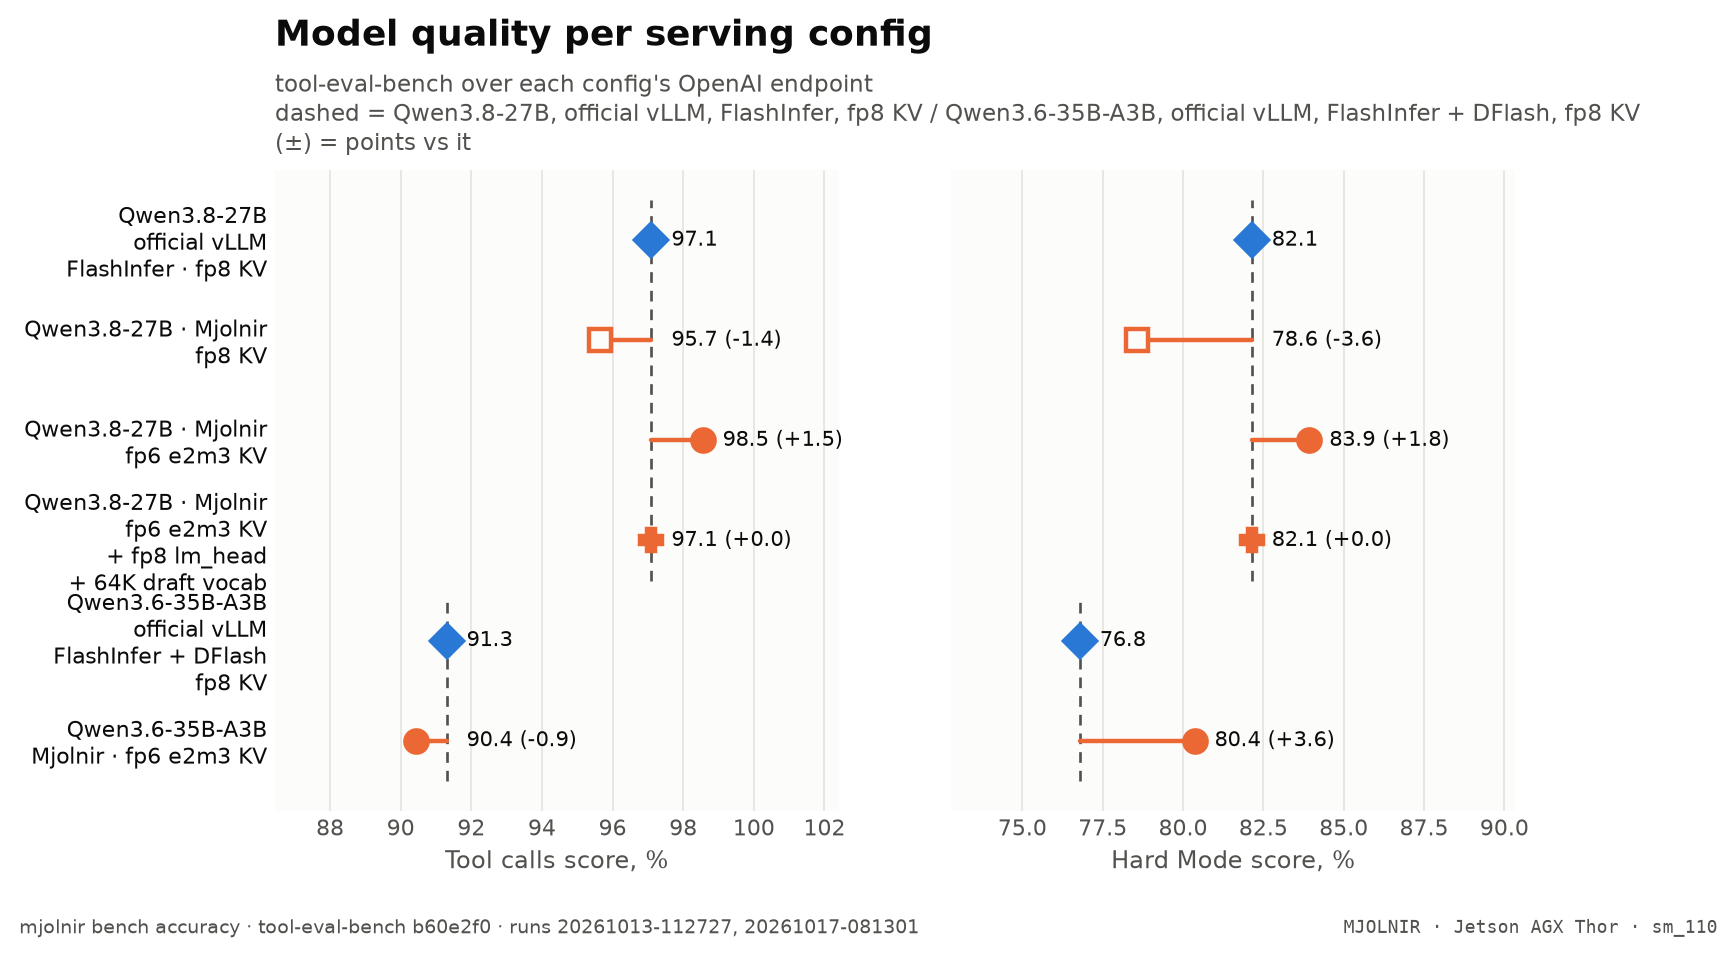
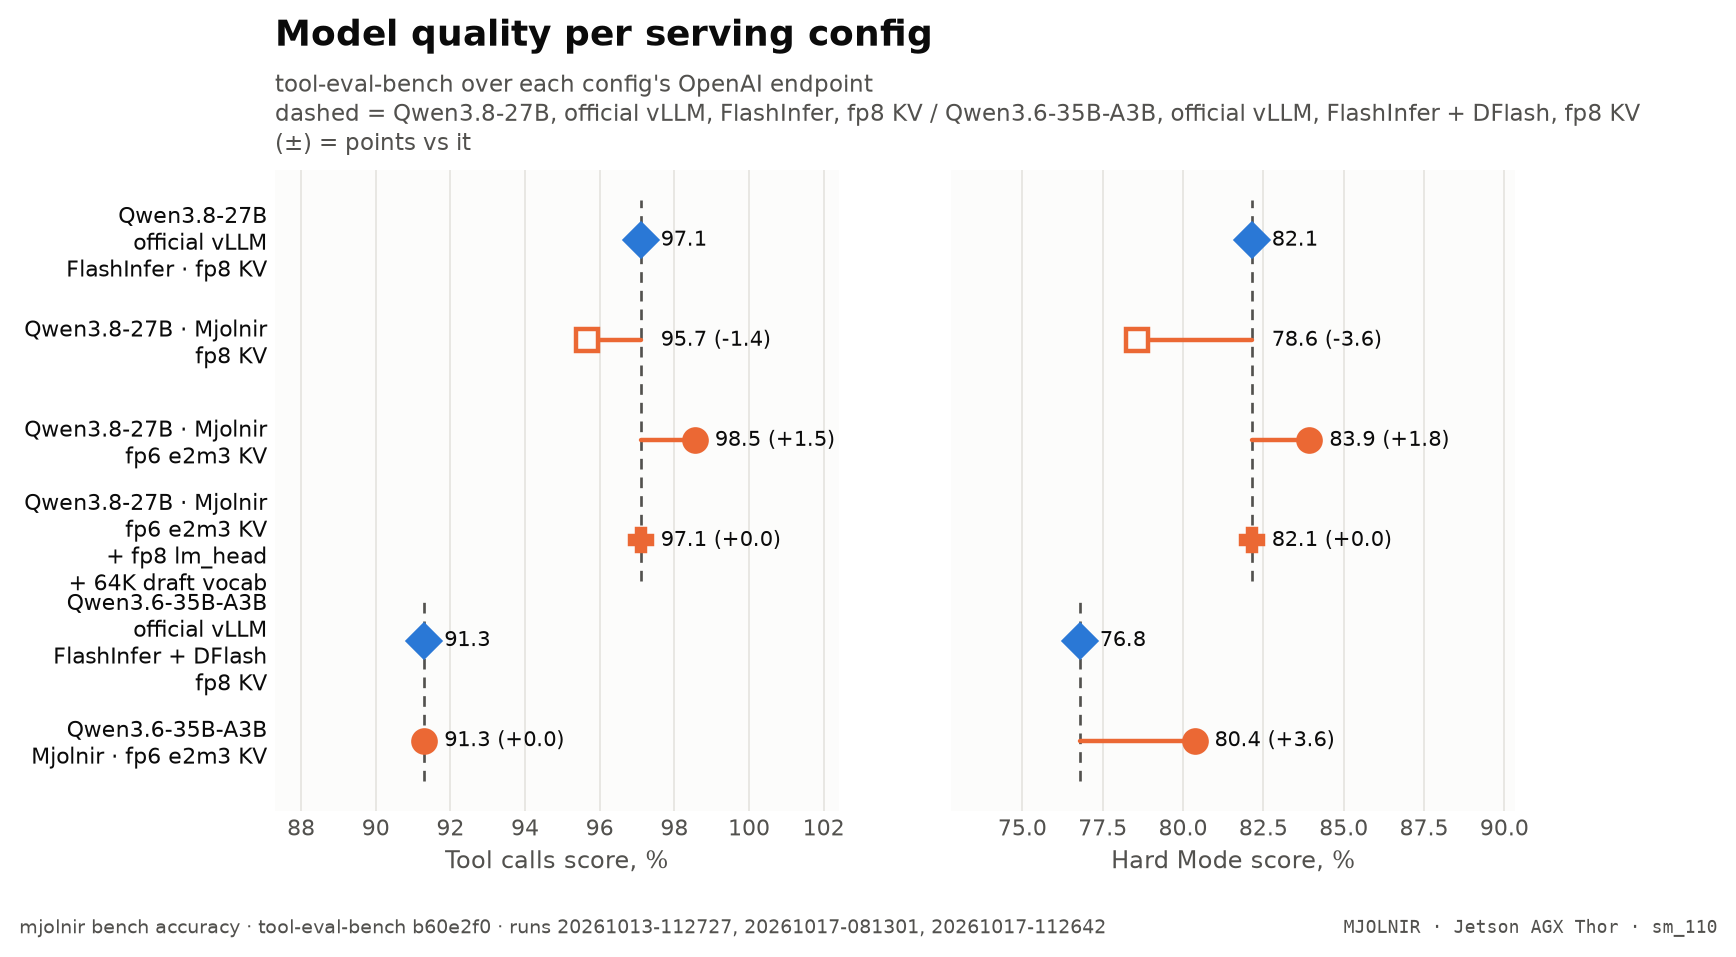
accuracy: rerun Qwen3.6 NVFP4_MJOLNIR_E2M3 leg (TC-45 scored, 100% completion)
Run 20261017-081301 dropped TC-45 (tool_choice=required) from the Mjolnir
leg: tool-eval-bench's pre-run probe judged the endpoint non-enforcing,
so Tool calls scored 123/136 against official's 126/138 (-2.2 points if
the dropped scenario counts as zero, not the -0.9 shown).

The probe is not reproducible as a failure: 10 of 10 repeats of the exact
probe request (temperature 0, max_tokens 256 and 4096) on the same config
returned a probe_ping tool call with finish_reason tool_calls, 82-203
completion tokens. Rerun 20261017-112642 (Mjolnir leg only, same args)
scored TC-45 2/2: Tool calls 126/138 = 91.3 (official 91.3), Hard Mode
45/56 = 80.4 (official 76.8), completion 100%.

One trial per leg: the two Mjolnir runs differ in 5 of 97 scenarios, as
large as the gap to official, so this supports "no loss beyond run-to-run
noise", not a gain.

diff --git a/docs/kernel/accuracy.md b/docs/kernel/accuracy.md
@@ -1,6 +1,6 @@
 # Accuracy
 
-> Does a serving config keep the model's answers? Tool calling (standard + Hard Mode), and GSM8K / MMLU / IFEval on demand · `mjolnir bench accuracy` · runs `20261013-112727`, `20261017-081301`
+> Does a serving config keep the model's answers? Tool calling (standard + Hard Mode), and GSM8K / MMLU / IFEval on demand · `mjolnir bench accuracy` · runs `20261013-112727`, `20261017-081301`, `20261017-112642`
 
 ## The question
 
@@ -28,7 +28,7 @@ Sampling is greedy (temperature 0) with a fixed seed, so two configs see the sam
 - **Qwen3.8-27B · Mjolnir · fp8 KV** vs Qwen3.8-27B · official vLLM · FlashInfer · fp8 KV: Tool calls -1.4, Hard Mode -3.6 points (4 scenarios scored lower, 2 higher of 97).
 - **Qwen3.8-27B · Mjolnir · fp6 e2m3 KV** vs Qwen3.8-27B · official vLLM · FlashInfer · fp8 KV: Tool calls +1.5, Hard Mode +1.8 points (0 scenarios scored lower, 3 higher of 97).
 - **Qwen3.8-27B · Mjolnir · fp6 e2m3 KV + fp8 lm_head + 64K draft vocab** vs Qwen3.8-27B · official vLLM · FlashInfer · fp8 KV: Tool calls +0.0, Hard Mode +0.0 points (1 scenarios scored lower, 1 higher of 97).
-- **Qwen3.6-35B-A3B · Mjolnir · fp6 e2m3 KV** vs Qwen3.6-35B-A3B · official vLLM · FlashInfer + DFlash · fp8 KV: Tool calls -0.9, Hard Mode +3.6 points (3 scenarios scored lower, 3 higher of 97).
+- **Qwen3.6-35B-A3B · Mjolnir · fp6 e2m3 KV** vs Qwen3.6-35B-A3B · official vLLM · FlashInfer + DFlash · fp8 KV: Tool calls +0.0, Hard Mode +3.6 points (1 scenarios scored lower, 3 higher of 97).
 
 | config | KV | Tool calls % | Hard Mode % | completion |
 |---|---|--:|--:|--:|
@@ -37,7 +37,7 @@ Sampling is greedy (temperature 0) with a fixed seed, so two configs see the sam
 | Qwen3.8-27B · Mjolnir · fp6 e2m3 KV | fp6 e2m3 | 98.5 (+1.5) | 83.9 (+1.8) | 100% |
 | Qwen3.8-27B · Mjolnir · fp6 e2m3 KV + fp8 lm_head + 64K draft vocab | fp6 e2m3 | 97.1 (+0.0) | 82.1 (+0.0) | 100% |
 | **Qwen3.6-35B-A3B · official vLLM · FlashInfer + DFlash · fp8 KV** | fp8 | 91.3 | 76.8 | 100% |
-| Qwen3.6-35B-A3B · Mjolnir · fp6 e2m3 KV | fp6 e2m3 | 90.4 (-0.9) | 80.4 (+3.6) | 99% |
+| Qwen3.6-35B-A3B · Mjolnir · fp6 e2m3 KV | fp6 e2m3 | 91.3 (+0.0) | 80.4 (+3.6) | 100% |
 
 <details>
 <summary>How the % and × here are calculated</summary>
@@ -48,7 +48,7 @@ Sampling is greedy (temperature 0) with a fixed seed, so two configs see the sam
 
 </details><br />
 
-<sub>Score in %, (±) = points vs the bold row of the same model (**Qwen3.8-27B · official vLLM · FlashInfer · fp8 KV / Qwen3.6-35B-A3B · official vLLM · FlashInfer + DFlash · fp8 KV**), never across models; n = averaged runs (`--trials`). Each row takes every suite from the newest run that measured it. tool-eval-bench arguments: Tool calls: `run --hardmode --seed 42 --timeout 600`; Hard Mode: `run --hardmode --seed 42 --timeout 600`. Rendered from [`benchmarks/raw/accuracy/20261013-112727/accuracy.json`](../../benchmarks/raw/accuracy/20261013-112727/accuracy.json), [`benchmarks/raw/accuracy/20261017-081301/accuracy.json`](../../benchmarks/raw/accuracy/20261017-081301/accuracy.json).</sub>
+<sub>Score in %, (±) = points vs the bold row of the same model (**Qwen3.8-27B · official vLLM · FlashInfer · fp8 KV / Qwen3.6-35B-A3B · official vLLM · FlashInfer + DFlash · fp8 KV**), never across models; n = averaged runs (`--trials`). Each row takes every suite from the newest run that measured it. tool-eval-bench arguments: Tool calls: `run --hardmode --seed 42 --timeout 600`; Hard Mode: `run --hardmode --seed 42 --timeout 600`. Rendered from [`benchmarks/raw/accuracy/20261013-112727/accuracy.json`](../../benchmarks/raw/accuracy/20261013-112727/accuracy.json), [`benchmarks/raw/accuracy/20261017-081301/accuracy.json`](../../benchmarks/raw/accuracy/20261017-081301/accuracy.json), [`benchmarks/raw/accuracy/20261017-112642/accuracy.json`](../../benchmarks/raw/accuracy/20261017-112642/accuracy.json).</sub>
 
 ### By tool-call category
 
@@ -67,9 +67,9 @@ Sampling is greedy (temperature 0) with a fixed seed, so two configs see the sam
 | F · Localization | 100 | 100 | 100 | 100 | 100 | 100 |
 | G · Structured Reasoning | 100 | 100 | 100 | 100 | 100 | 100 |
 | H · Instruction Following | 100 | 100 | 100 | 100 | 100 | 100 |
-| I · Context & State | 90 | 95 | 100 | 90 | 85 | 80 |
+| I · Context & State | 90 | 95 | 100 | 90 | 85 | 75 |
 | J · Code Patterns | 100 | 100 | 100 | 100 | 83 | 100 |
-| K · Safety & Boundaries | 100 | 88 | 100 | 100 | 92 | 85 |
+| K · Safety & Boundaries | 100 | 88 | 100 | 100 | 92 | 92 |
 | L · Toolset Scale | 100 | 100 | 100 | 100 | 88 | 88 |
 | M · Autonomous Planning | 100 | 100 | 100 | 100 | 83 | 100 |
 | N · Creative Composition | 100 | 100 | 100 | 100 | 100 | 100 |

diff --git a/docs/kernel/README.md b/docs/kernel/README.md
@@ -74,7 +74,7 @@ flowchart LR
 | 10 | [L2 prefetch](prefetch.md) | TMA L2 prefetch distance (--l2_prefetch) sweep | ✅ run `20261012-211441` |
 | 11 | [Programmatic dependent launch](pdl.md) | PDL on/off wall clock (decode overlaps the previous kernel; merge launches early) | ✅ run `20261012-212058` |
 | 12 | [Flag A/B](ab.md) | any harness flag sets, ncu + wall clock (default: evict-first x PDL) | ✅ run `20261012-212748` |
-| 13 | [Accuracy](accuracy.md) | Does a serving config keep the model's answers? Tool calling (standard + Hard Mode), GSM8K / MMLU / IFEval on demand — `mjolnir bench accuracy` | ✅ run `20261017-081301` |
+| 13 | [Accuracy](accuracy.md) | Does a serving config keep the model's answers? Tool calling (standard + Hard Mode), GSM8K / MMLU / IFEval on demand — `mjolnir bench accuracy` | ✅ run `20261017-112642` |
 
 ## Reproducing everything
 
